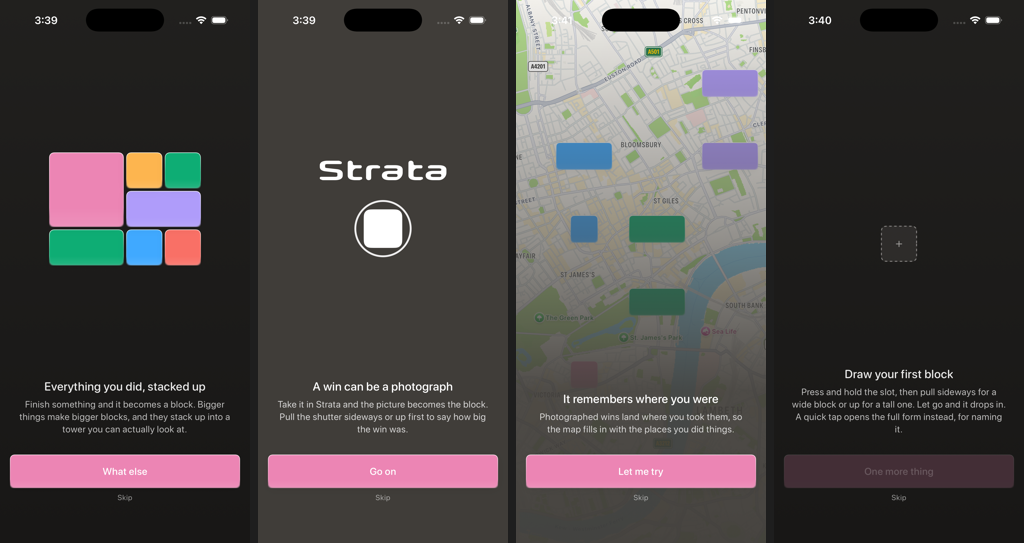
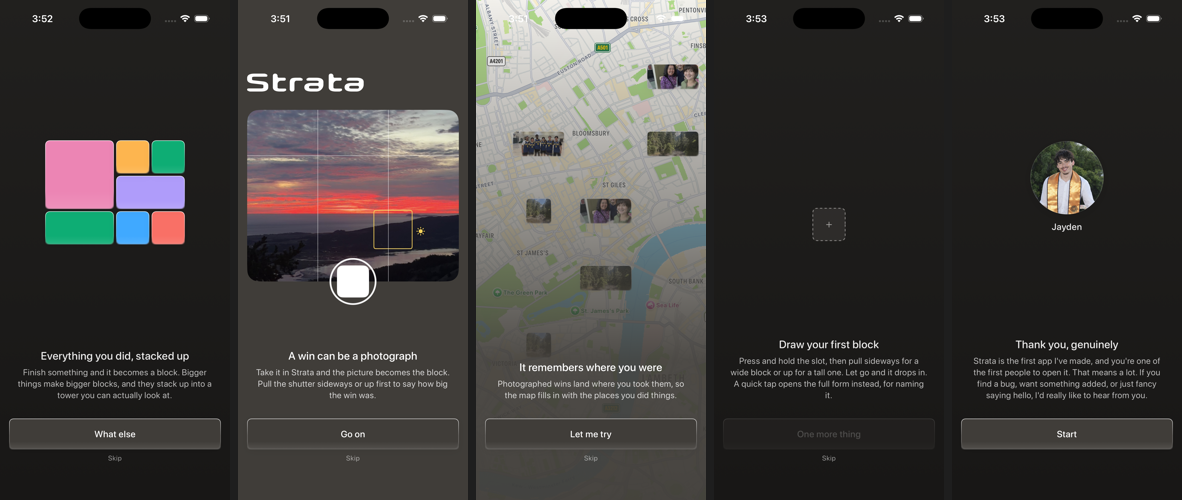
Onboarding uses real photographs, and the primary colour is not pink
Three corrections from the owner, all of them about the same thing:
showing the app rather than diagramming it.

**The camera page is a real viewfinder.** He supplied a frame from the
real camera — his own sunset, with the composition guides and the focus
box he had on screen at the time. The first version drew an abstract
white ring on a black rectangle, which is a picture OF a camera rather
than a camera. This screen has to make somebody want to use the thing,
and nothing does that like a photograph. The app's own chrome goes over
it: the wordmark where the wordmark belongs, and the shutter drawing the
size footprint, which is the point being made — the camera makes blocks
too. The screenshot's own status bar and tab bar are cropped away, so
what is left is the viewfinder and what we draw on it.

**The map's blocks carry his photographs.** Seven of them, out of the
asset catalogue, EXIF orientation baked in and centre-cropped square.
A map of flat colour squares does not make the case that your pictures
land where you took them; a map with pictures on it makes it instantly.

`PlaceBlock` grew a `bundle:` prefix for this: a photograph that lives
in the asset catalogue rather than in the user's image directory.
Nothing the app writes ever starts with it, and it sits beside the
empty-name guard added in the same file — both are about a block never
drawing a broken-picture glyph.

**The button is `AppColors.accentWarm`.** It was mindfulness pink, and
[…]

diff --git a/Strata/Views/OnboardingView.swift b/Strata/Views/OnboardingView.swift
@@ -183,23 +183,43 @@ struct OnboardingView: View {
 
     // MARK: - The camera
 
-    /// A still of the camera tab, in its own light.
+    /// The camera, as it actually looks.
     ///
-    /// The wordmark at the top and the shutter below are where the real screen
-    /// puts them, and the rounded square inside the ring is the footprint the
-    /// real shutter draws while you pull a size out of it — which is the whole
-    /// point being made here: the camera makes blocks too.
+    /// **A real frame from the real camera**, supplied by the owner — his own
+    /// sunset, with the composition guides and the focus box he had on screen
+    /// at the time. The first version drew an abstract ring on a black
+    /// rectangle, which is a diagram of a camera rather than a camera. This
+    /// screen has to make somebody want to use it, and nothing does that like
+    /// a photograph does.
+    ///
+    /// The app's own chrome goes over it: the wordmark where the wordmark
+    /// belongs, and the shutter drawing the SIZE footprint, which is the point
+    /// being made — the camera makes blocks too.
     private var camera: some View {
-        VStack(spacing: GridConstants.gapSection) {
+        VStack(spacing: 0) {
             StrataWordmark(size: 32, color: .white)
-            ZStack {
-                Circle()
-                    .strokeBorder(.white.opacity(0.92), lineWidth: 3)
-                    .frame(width: 92, height: 92)
-                RoundedRectangle(cornerRadius: 11, style: .continuous)
-                    .fill(.white)
-                    .frame(width: 62, height: 62)
-            }
+                .frame(maxWidth: .infinity, alignment: .leading)
+                .padding(.bottom, GridConstants.gapSection)
+
+            Image("DemoViewfinder")
+                .resizable()
+                .scaledToFill()
+                .frame(height: 300)
+                .clipped()
+                .clipShape(RoundedRectangle(cornerRadius: GridConstants.radiusSurface,
+                                            style: .continuous))
+                .overlay(alignment: .bottom) {
+                    ZStack {
+                        Circle()
+                            .strokeBorder(.white.opacity(0.95), lineWidth: 3)
+                            .frame(width: 82, height: 82)
+                        RoundedRectangle(cornerRadius: 10, style: .continuous)
+                            .fill(.white)
+                            .frame(width: 56, height: 56)
+                    }
+                    .offset(y: 41)
+                }
+                .padding(.bottom, 52)
         }
     }
 
@@ -224,10 +244,10 @@ struct OnboardingView: View {
                     completedAt: Date().addingTimeInterval(-Double(i) * 3600),
                     title: "Win",
                     category: category,
-                    // Deliberately empty: these are illustrative places, not
-                    // photographs, and a name that resolves to nothing draws a
-                    // broken-picture glyph. The blocks are their colour here.
-                    photoFileName: "",
+                    // The owner's own photographs, out of the asset
+                    // catalogue — a map of flat colour squares does not make
+                    // the case that your pictures land where you took them.
+                    photoFileName: "bundle:DemoPhoto\((i % 7) + 1)",
                     place: WinPlace(latitude: lat + Double(i) * 0.0006,
                                     longitude: lon + Double(i) * 0.0004,
                                     accuracy: 20)
@@ -415,9 +435,14 @@ struct OnboardingView: View {
             .frame(maxWidth: .infinity)
             .frame(height: 54)
             .background {
+                // **`accentWarm`, not a category colour.** The first version
+                // used mindfulness pink, and the owner's note is that pink is
+                // not the app's primary any more. `AppColors.accentWarm` is
+                // what `AccentColor.colorset` resolves to and what every
+                // other primary in the app inherits.
                 BlockSurface(cornerRadius: GridConstants.blockCornerRadius(forCell: 54),
                              scale: 54 / GridConstants.blockReferenceCell) {
-                    HabitCategory.mindfulness.style.baseColor
+                    AppColors.accentWarm
                 }
             }
     }

diff --git a/Strata/Views/MemoriesMapView.swift b/Strata/Views/MemoriesMapView.swift
@@ -629,6 +629,10 @@ struct MemoriesMapView: View {
 /// colour is what the block IS while the picture decodes, and it is what shows
 /// through the rim.
 private struct PlaceBlock: View {
+    /// Marks a photograph that lives in the asset catalogue rather than in the
+    /// user's image directory. Only onboarding uses it.
+    static let bundledPrefix = "bundle:"
+
     let cluster: PlaceMap.Cluster
 
     /// How long to wait before arriving — see `arrivalDelay(for:)`.
@@ -691,11 +695,27 @@ private struct PlaceBlock: View {
         ) {
             ZStack {
                 cluster.category.style.baseColor
+                // **A bundled photograph, for the onboarding map.**
+                //
+                // Onboarding shows a real map with real clustering, and its
+                // blocks have to carry real pictures — a map of flat colour
+                // squares does not make the case that your photographs land
+                // where you took them. Those pictures ship in the asset
+                // catalogue rather than in the image directory, so a name with
+                // this prefix is drawn straight from the bundle. Nothing the
+                // app writes ever starts with it.
+                if let name = cluster.photoFileNames.first,
+                   name.hasPrefix(Self.bundledPrefix) {
+                    Image(String(name.dropFirst(Self.bundledPrefix.count)))
+                        .resizable()
+                        .scaledToFill()
+                        .frame(width: size.width, height: size.height)
+                        .clipped()
                 // A name that is empty is not a photograph. Without this
                 // guard `CachedImageView` draws its missing-file placeholder —
                 // a broken-picture glyph on the block — which is worse than
                 // the colour alone and was visible on the onboarding map.
-                if let name = cluster.photoFileNames.first, !name.isEmpty {
+                } else if let name = cluster.photoFileNames.first, !name.isEmpty {
                     // **One width for every block on the map**, whatever size
                     // it draws at. `CachedImageView` keys its cache on the
                     // requested width, so asking for 88 at one zoom and 176 at
